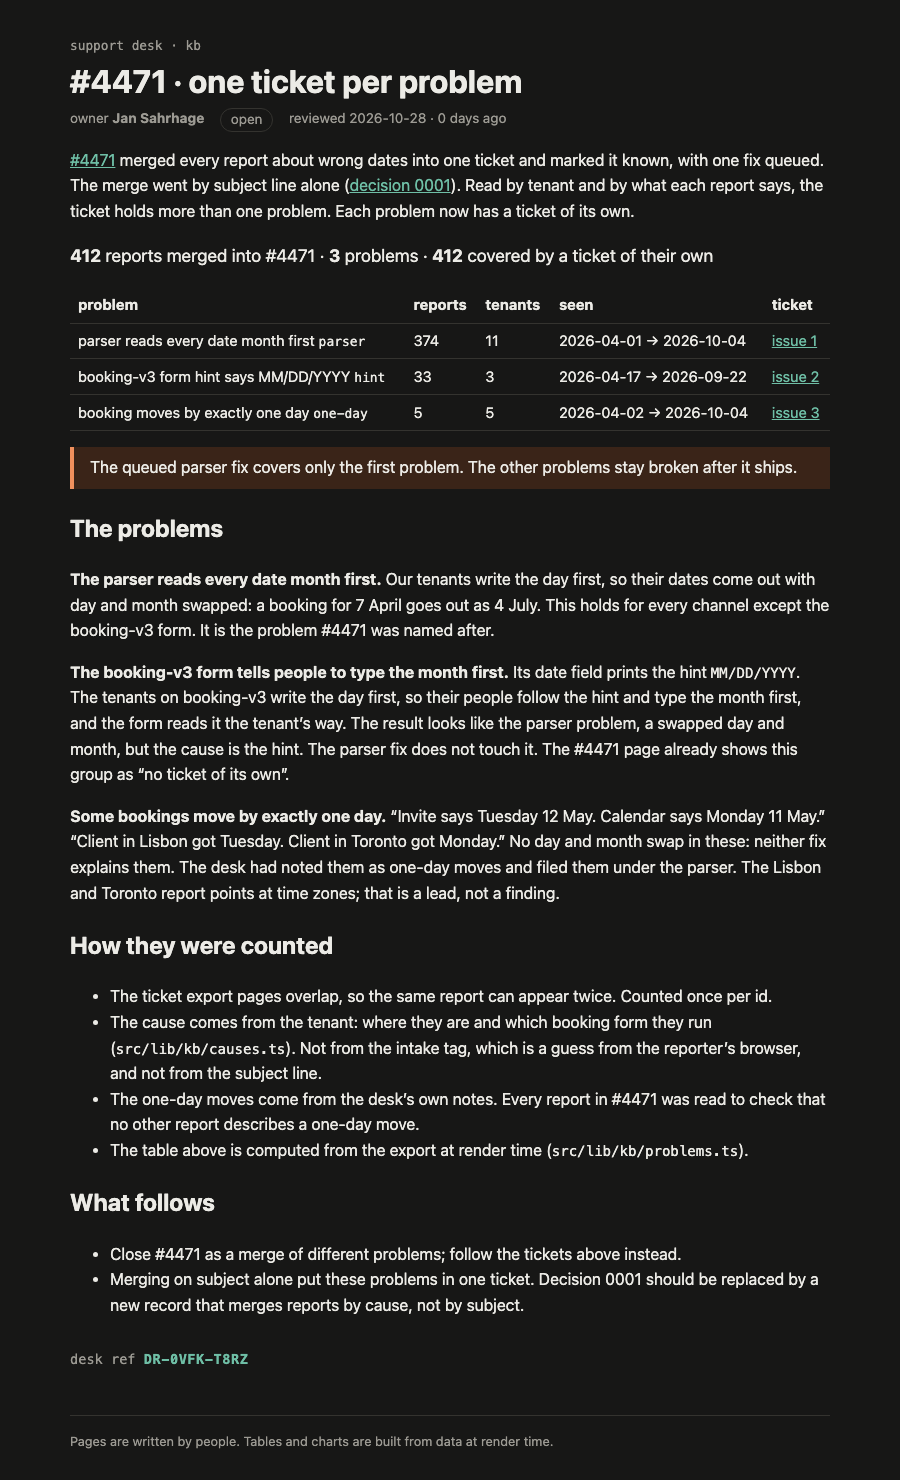
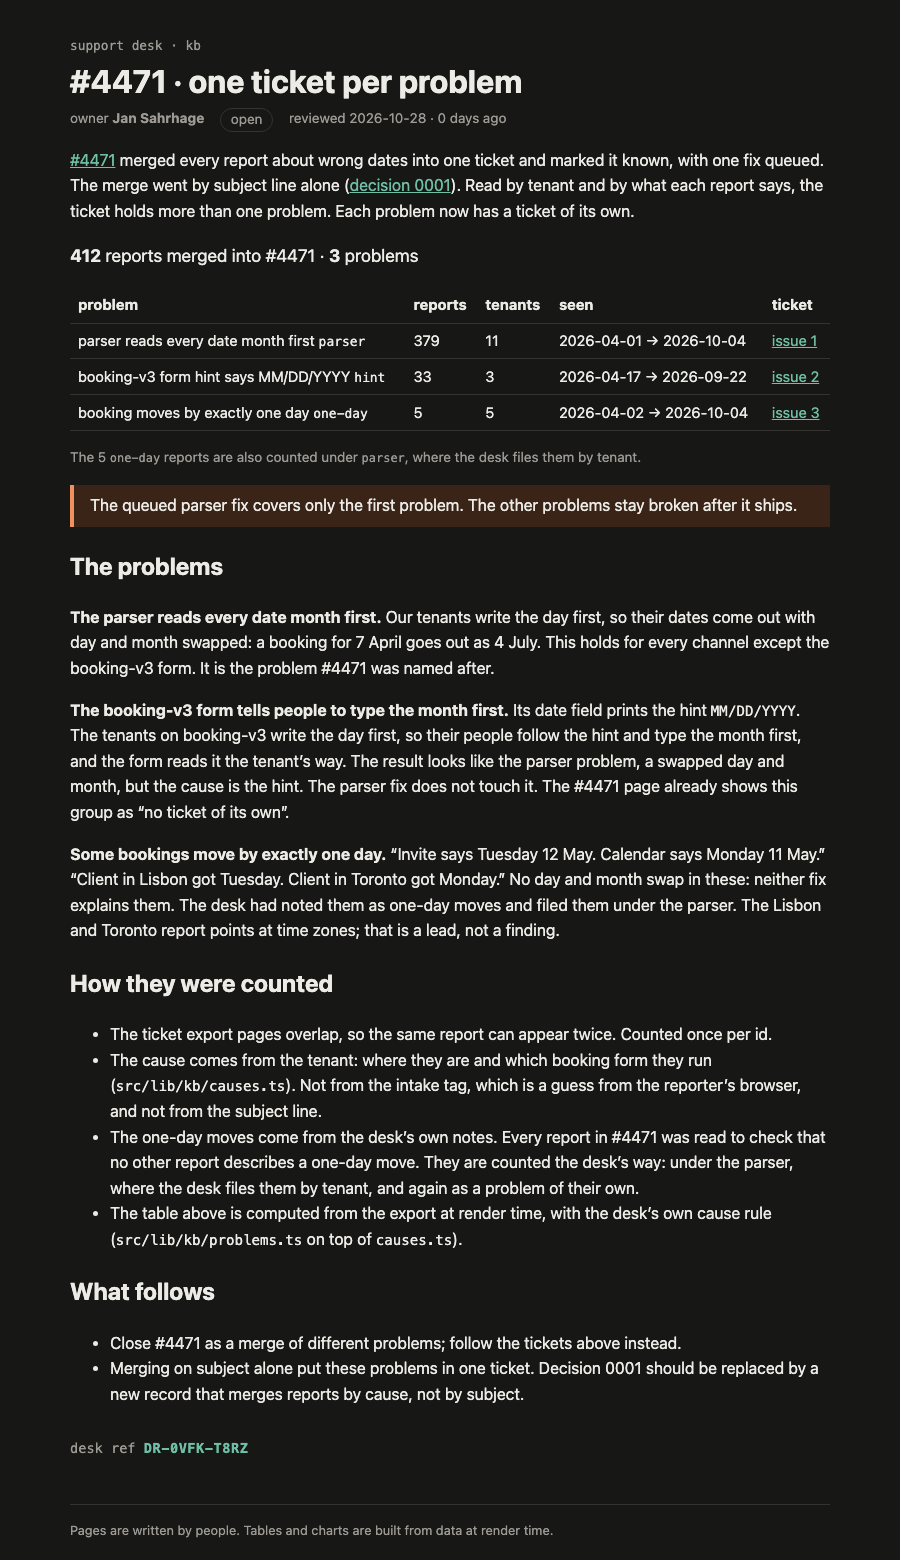
Count #4471 problems the way the desk counts
Parser 379 (CauseTable, as exported): the 5 one-day moves stay counted
under parser, where the desk files them, and are footnoted; they also
have their own ticket (issue 3). Rendered page refreshed.

Changed region(s): [[0.0622, 0.0311, 0.9333, 0.9324], [0.0622, 0.9635, 0.6222, 0.9946]]

diff --git a/rendered/incident-4471-problems.html b/rendered/incident-4471-problems.html
@@ -9,11 +9,11 @@
 		<link href="../../../../_app/immutable/chunks/B2Ul7l_u.js" rel="modulepreload">
 		<link href="../../../../_app/immutable/chunks/BCPXOG7W.js" rel="modulepreload">
 		<link href="../../../../_app/immutable/chunks/Dh1V97Jm.js" rel="modulepreload">
-		<link href="../../../../_app/immutable/entry/app.Dm_0ogAm.js" rel="modulepreload">
+		<link href="../../../../_app/immutable/entry/app.Dh6eW6jz.js" rel="modulepreload">
 		<link href="../../../../_app/immutable/nodes/0.BurGglGN.js" rel="modulepreload">
 		<link href="../../../../_app/immutable/chunks/DK3Fl9T5.js" rel="modulepreload">
-		<link href="../../../../_app/immutable/nodes/5.y9Q1zrbM.js" rel="modulepreload">
-		<link href="../../../../_app/immutable/chunks/CefdX5DT.js" rel="modulepreload">
+		<link href="../../../../_app/immutable/nodes/5.Bsn50lOP.js" rel="modulepreload">
+		<link href="../../../../_app/immutable/chunks/ChXa2LSF.js" rel="modulepreload">
 		<link href="../../../../_app/immutable/chunks/BTPwLomz.js" rel="modulepreload">
 		<link href="../../../../_app/immutable/chunks/CVBzP17p.js" rel="modulepreload">
 		<link href="../../../../_app/immutable/chunks/BIy4WKJS.js" rel="modulepreload">
@@ -22,17 +22,17 @@
 
 aside.svelte-17bri61{border-left:4px solid var(--accent);background:var(--note-bg);margin:1rem 0;padding:.5rem 1rem}aside.warn.svelte-17bri61{border-color:var(--warn);background:var(--warn-bg)}
 
-.sum.svelte-1op6c6{font-size:1.1rem}.open.svelte-1op6c6 td:where(.svelte-1op6c6){background:var(--warn-bg)}.open.svelte-1op6c6 td:where(.svelte-1op6c6):last-child{color:var(--warn);font-weight:600}.stamp.svelte-1280m42{font:.85rem var(--mono);color:var(--muted);margin:2rem 0 0}.stamp.svelte-1280m42 b:where(.svelte-1280m42){color:var(--accent);letter-spacing:.04em}.missing.svelte-1280m42{color:var(--warn)}
+.sum.svelte-1op6c6{font-size:1.1rem}.note.svelte-1op6c6{color:var(--muted);font-size:.85em}.open.svelte-1op6c6 td:where(.svelte-1op6c6){background:var(--warn-bg)}.open.svelte-1op6c6 td:where(.svelte-1op6c6):last-child{color:var(--warn);font-weight:600}.stamp.svelte-1280m42{font:.85rem var(--mono);color:var(--muted);margin:2rem 0 0}.stamp.svelte-1280m42 b:where(.svelte-1280m42){color:var(--accent);letter-spacing:.04em}.missing.svelte-1280m42{color:var(--warn)}
 </style>
 		<link href="../../../../_app/immutable/assets/runbook.COyw0cbZ.css" rel="stylesheet" disabled media="(max-width: 0)">
 		<link href="../../../../_app/immutable/assets/Callout.AbLv9dM_.css" rel="stylesheet" disabled media="(max-width: 0)">
-		<link href="../../../../_app/immutable/assets/_page.lbj36FF-.css" rel="stylesheet" disabled media="(max-width: 0)">
+		<link href="../../../../_app/immutable/assets/_page.DUgw4t3M.css" rel="stylesheet" disabled media="(max-width: 0)">
   </head>
   <body data-sveltekit-preload-data="hover">
     <div style="display: contents"><!--[--><!--[--><!--[0--><!--[--><!--[--><!--[-1--><!--[--><div class="kb svelte-e2jw2j"><header><a class="crumb svelte-e2jw2j" href="/kb">support desk · kb</a> <h1 class="svelte-e2jw2j">#4471 · one ticket per problem</h1> <p class="meta svelte-e2jw2j"><span>owner <b>Jan Sahrhage</b></span> <span class="status open svelte-e2jw2j">open</span> <span class="svelte-e2jw2j">reviewed 2026-10-28 · 0 days ago</span></p></header> <!--[-1--><!--]--> <main><p><a href="/kb/incidents/4471">#4471</a> merged every report about wrong dates into one ticket and marked it
 known, with one fix queued. The merge went by subject line alone
 (<a href="/kb/decisions/0001-dedupe-by-subject">decision 0001</a>). Read by tenant and by what each report
-says, the ticket holds more than one problem. Each problem now has a ticket of its own.</p> <p class="sum svelte-1op6c6"><strong>412</strong> reports merged into #4471 · <strong>3</strong> problems · <strong>412</strong> covered by a ticket of their own</p> <table><thead><tr><th>problem</th><th>reports</th><th>tenants</th><th>seen</th><th>ticket</th></tr></thead><tbody><!--[--><tr class="svelte-1op6c6"><td class="svelte-1op6c6">parser reads every date month first <code>parser</code></td><td class="svelte-1op6c6">374</td><td class="svelte-1op6c6">11</td><td class="svelte-1op6c6">2026-04-01 → 2026-10-04</td><td class="svelte-1op6c6"><!--[0--><a href="https://github.com/voffice-sahrhage/course-mega-support-kb-4471/issues/1">issue 1</a><!--]--></td></tr><tr class="svelte-1op6c6"><td class="svelte-1op6c6">booking-v3 form hint says MM/DD/YYYY <code>hint</code></td><td class="svelte-1op6c6">33</td><td class="svelte-1op6c6">3</td><td class="svelte-1op6c6">2026-04-17 → 2026-09-22</td><td class="svelte-1op6c6"><!--[0--><a href="https://github.com/voffice-sahrhage/course-mega-support-kb-4471/issues/2">issue 2</a><!--]--></td></tr><tr class="svelte-1op6c6"><td class="svelte-1op6c6">booking moves by exactly one day <code>one-day</code></td><td class="svelte-1op6c6">5</td><td class="svelte-1op6c6">5</td><td class="svelte-1op6c6">2026-04-02 → 2026-10-04</td><td class="svelte-1op6c6"><!--[0--><a href="https://github.com/voffice-sahrhage/course-mega-support-kb-4471/issues/3">issue 3</a><!--]--></td></tr><!--]--></tbody></table><!----> <aside class="warn svelte-17bri61"><!---->The queued parser fix covers only the first problem. The other problems stay broken after it ships.<!----></aside><!----> <h2>The problems</h2> <p><strong>The parser reads every date month first.</strong> Our tenants write the day first, so their dates
+says, the ticket holds more than one problem. Each problem now has a ticket of its own.</p> <p class="sum svelte-1op6c6"><strong>412</strong> reports merged into #4471 · <strong>3</strong> problems</p> <table><thead><tr><th>problem</th><th>reports</th><th>tenants</th><th>seen</th><th>ticket</th></tr></thead><tbody><!--[--><tr class="svelte-1op6c6"><td class="svelte-1op6c6">parser reads every date month first <code>parser</code></td><td class="svelte-1op6c6">379</td><td class="svelte-1op6c6">11</td><td class="svelte-1op6c6">2026-04-01 → 2026-10-04</td><td class="svelte-1op6c6"><!--[0--><a href="https://github.com/voffice-sahrhage/course-mega-support-kb-4471/issues/1">issue 1</a><!--]--></td></tr><tr class="svelte-1op6c6"><td class="svelte-1op6c6">booking-v3 form hint says MM/DD/YYYY <code>hint</code></td><td class="svelte-1op6c6">33</td><td class="svelte-1op6c6">3</td><td class="svelte-1op6c6">2026-04-17 → 2026-09-22</td><td class="svelte-1op6c6"><!--[0--><a href="https://github.com/voffice-sahrhage/course-mega-support-kb-4471/issues/2">issue 2</a><!--]--></td></tr><tr class="svelte-1op6c6"><td class="svelte-1op6c6">booking moves by exactly one day <code>one-day</code></td><td class="svelte-1op6c6">5</td><td class="svelte-1op6c6">5</td><td class="svelte-1op6c6">2026-04-02 → 2026-10-04</td><td class="svelte-1op6c6"><!--[0--><a href="https://github.com/voffice-sahrhage/course-mega-support-kb-4471/issues/3">issue 3</a><!--]--></td></tr><!--]--></tbody></table> <!--[--><!--[-1--><!--]--><!--[-1--><!--]--><!--[0--><p class="note svelte-1op6c6">The 5 <code>one-day</code> reports are also counted under <code>parser</code>, where the desk files them by tenant.</p><!--]--><!--]--><!----> <aside class="warn svelte-17bri61"><!---->The queued parser fix covers only the first problem. The other problems stay broken after it ships.<!----></aside><!----> <h2>The problems</h2> <p><strong>The parser reads every date month first.</strong> Our tenants write the day first, so their dates
 come out with day and month swapped: a booking for 7 April goes out as 4 July. This holds for
 every channel except the booking-v3 form. It is the problem #4471 was named after.</p> <p><strong>The booking-v3 form tells people to type the month first.</strong> Its date field prints the hint <code>MM/DD/YYYY</code>. The tenants on booking-v3 write the day first, so their people follow the
 hint and type the month first, and the form reads it the tenant’s way. The result looks like
@@ -44,21 +44,23 @@ under the parser. The Lisbon and Toronto report points at time zones; that is a 
 finding.</p> <h2>How they were counted</h2> <ul><li>The ticket export pages overlap, so the same report can appear twice. Counted once per id.</li> <li>The cause comes from the tenant: where they are and which booking form they run
 (<code>src/lib/kb/causes.ts</code>). Not from the intake tag, which is a guess from the reporter’s
 browser, and not from the subject line.</li> <li>The one-day moves come from the desk’s own notes. Every report in #4471 was read to check
-that no other report describes a one-day move.</li> <li>The table above is computed from the export at render time (<code>src/lib/kb/problems.ts</code>).</li></ul> <h2>What follows</h2> <ul><li>Close #4471 as a merge of different problems; follow the tickets above instead.</li> <li>Merging on subject alone put these problems in one ticket. Decision 0001 should be replaced
+that no other report describes a one-day move. They are counted the desk’s way: under the
+parser, where the desk files them by tenant, and again as a problem of their own.</li> <li>The table above is computed from the export at render time, with the desk’s own cause rule
+(<code>src/lib/kb/problems.ts</code> on top of <code>causes.ts</code>).</li></ul> <h2>What follows</h2> <ul><li>Close #4471 as a merge of different problems; follow the tickets above instead.</li> <li>Merging on subject alone put these problems in one ticket. Decision 0001 should be replaced
 by a new record that merges reports by cause, not by subject.</li></ul> <!--[0--><p class="stamp svelte-1280m42">desk ref <b class="svelte-1280m42">DR-0VFK-T8RZ</b></p><!--]--><!----><!----></main> <footer class="svelte-e2jw2j">Pages are written by people. Tables and charts are built from data at render time.</footer></div><!--]--><!--]--><!--]--><!----><!--]--><!--]--><!--]--><!----> <!--[-1--><!--]--><!--]-->
 			
 			<script>
 				{
-					__sveltekit_1nc6jhs = {
+					__sveltekit_ktirsq = {
 						base: new URL("../../../..", location).pathname.slice(0, -1),
-						version: "1793208404074"
+						version: "1793208619968"
 					};
 
 					const element = document.currentScript.parentElement;
 
 					import("../../../../_app/immutable/entry/start.CH5w6lId.js").then(async (kit) => {
-						kit.init(__sveltekit_1nc6jhs);
-						const app = await import("../../../../_app/immutable/entry/app.Dm_0ogAm.js");
+						kit.init(__sveltekit_ktirsq);
+						const app = await import("../../../../_app/immutable/entry/app.Dh6eW6jz.js");
 						kit.start(app, element, {
 							node_ids: [0, 5],
 							data: [null,null],

diff --git a/src/lib/kb/problems.ts b/src/lib/kb/problems.ts
@@ -1,6 +1,7 @@
-// One problem per ticket. Builds on causes.ts and adds what the cause rule cannot see: reports the desk
-// read as a one-day move (desk-notes.json) describe no day/month swap, so neither parser nor hint explains them.
-import { causeOf, uniqueById, type Cause, type Report, type Tenant } from '#lib/kb/causes';
+// One problem per ticket, counted the way the desk counts (CauseTable, causes.ts): reports by cause, per
+// tenant. Reports the desk read as a one-day move (desk-notes.json) stay counted where they're filed and
+// are also a problem of their own: they describe no day/month swap, so neither parser nor hint explains them.
+import { groupByCause, readAs, uniqueById, type Cause, type Report, type Tenant } from '#lib/kb/causes';
 
 export type Problem = Cause | 'one-day';
 
@@ -10,36 +11,42 @@ export const PROBLEM_LABEL: Record<Problem, string> = {
   'one-day': 'booking moves by exactly one day',
 };
 
-export function problemOf(r: Report, t: Tenant | undefined, oneDayMove: readonly string[]): Problem | 'unplaced' {
-  if (oneDayMove.includes(r.id)) return 'one-day';
-  return causeOf(r, t) ?? 'unplaced';
-}
-
-export type ProblemGroup = {
+export type ProblemRow = {
   problem: Problem | 'unplaced';
-  reports: Report[];
+  reports: number;
   tenants: number;
   firstSeen: string;
   lastSeen: string;
+  // For one-day: the cause the desk files these reports under.
+  filedUnder?: string[];
 };
 
-export function groupByProblem(
+export function problemRows(
   reports: Report[],
   ticket: number,
   tenantOf: (r: Report) => Tenant | undefined,
   oneDayMove: readonly string[],
-): { merged: Report[]; groups: ProblemGroup[] } {
+): { merged: Report[]; rows: ProblemRow[] } {
   const merged = uniqueById(reports).filter((r) => r.mergedInto === ticket);
-  const byProblem = new Map<ProblemGroup['problem'], Report[]>();
-  for (const r of merged) {
-    const p = problemOf(r, tenantOf(r), oneDayMove);
-    byProblem.set(p, [...(byProblem.get(p) ?? []), r]);
+  const groups = groupByCause(merged, tenantOf);
+  const rows: ProblemRow[] = groups.map((g) => ({
+    problem: g.cause,
+    reports: g.reports.length,
+    tenants: g.tenants,
+    firstSeen: g.firstSeen,
+    lastSeen: g.lastSeen,
+  }));
+  const moved = merged.filter((r) => oneDayMove.includes(r.id));
+  if (moved.length) {
+    const days = moved.map((r) => r.receivedAt.slice(0, 10)).sort();
+    rows.push({
+      problem: 'one-day',
+      reports: moved.length,
+      tenants: new Set(moved.map((r) => r.tenant)).size,
+      firstSeen: days[0],
+      lastSeen: days[days.length - 1],
+      filedUnder: groups.filter((g) => readAs(g, oneDayMove)).map((g) => g.cause),
+    });
   }
-  const groups = [...byProblem.entries()]
-    .map(([problem, rs]) => {
-      const days = rs.map((r) => r.receivedAt.slice(0, 10)).sort();
-      return { problem, reports: rs, tenants: new Set(rs.map((r) => r.tenant)).size, firstSeen: days[0], lastSeen: days[days.length - 1] };
-    })
-    .sort((a, b) => b.reports.length - a.reports.length);
-  return { merged, groups };
+  return { merged, rows };
 }

diff --git a/src/lib/kb/ProblemTable.svelte b/src/lib/kb/ProblemTable.svelte
@@ -4,19 +4,17 @@
   import tickets from '#lib/data/tickets-4471.json';
   import type { Report } from '#lib/kb/causes';
   import { tenantOf } from '#lib/kb/locales';
-  import { groupByProblem, PROBLEM_LABEL } from '#lib/kb/problems';
+  import { problemRows, PROBLEM_LABEL } from '#lib/kb/problems';
 
   let { ticket }: { ticket: number } = $props();
 
-  const split = $derived(groupByProblem(reports as Report[], ticket, tenantOf, notes.oneDayMove));
+  const split = $derived(problemRows(reports as Report[], ticket, tenantOf, notes.oneDayMove));
   const issueOf = (p: string) => (tickets.tickets as Record<string, number>)[p];
-  const covered = $derived(split.groups.filter((g) => issueOf(g.problem)).reduce((n, g) => n + g.reports.length, 0));
 </script>
 
 <p class="sum">
   <strong>{split.merged.length}</strong> reports merged into #{ticket} ·
-  <strong>{split.groups.length}</strong> {split.groups.length === 1 ? 'problem' : 'problems'} ·
-  <strong>{covered}</strong> covered by a ticket of their own
+  <strong>{split.rows.length}</strong> {split.rows.length === 1 ? 'problem' : 'problems'}
 </p>
 
 <table>
@@ -24,10 +22,10 @@
     <tr><th>problem</th><th>reports</th><th>tenants</th><th>seen</th><th>ticket</th></tr>
   </thead>
   <tbody>
-    {#each split.groups as g (g.problem)}
+    {#each split.rows as g (g.problem)}
       <tr class:open={!issueOf(g.problem)}>
         <td>{g.problem === 'unplaced' ? 'no tenant on file' : PROBLEM_LABEL[g.problem]} <code>{g.problem}</code></td>
-        <td>{g.reports.length}</td>
+        <td>{g.reports}</td>
         <td>{g.tenants}</td>
         <td>{g.firstSeen} → {g.lastSeen}</td>
         <td>
@@ -42,8 +40,15 @@
   </tbody>
 </table>
 
+{#each split.rows as g (g.problem)}
+  {#if g.filedUnder}
+    <p class="note">The {g.reports} <code>{g.problem}</code> reports are also counted under <code>{g.filedUnder.join(', ')}</code>, where the desk files them by tenant.</p>
+  {/if}
+{/each}
+
 <style>
   .sum { font-size: 1.1rem; }
+  .note { color: var(--muted); font-size: 0.85em; }
   .open td { background: var(--warn-bg); }
   .open td:last-child { color: var(--warn); font-weight: 600; }
 </style>
